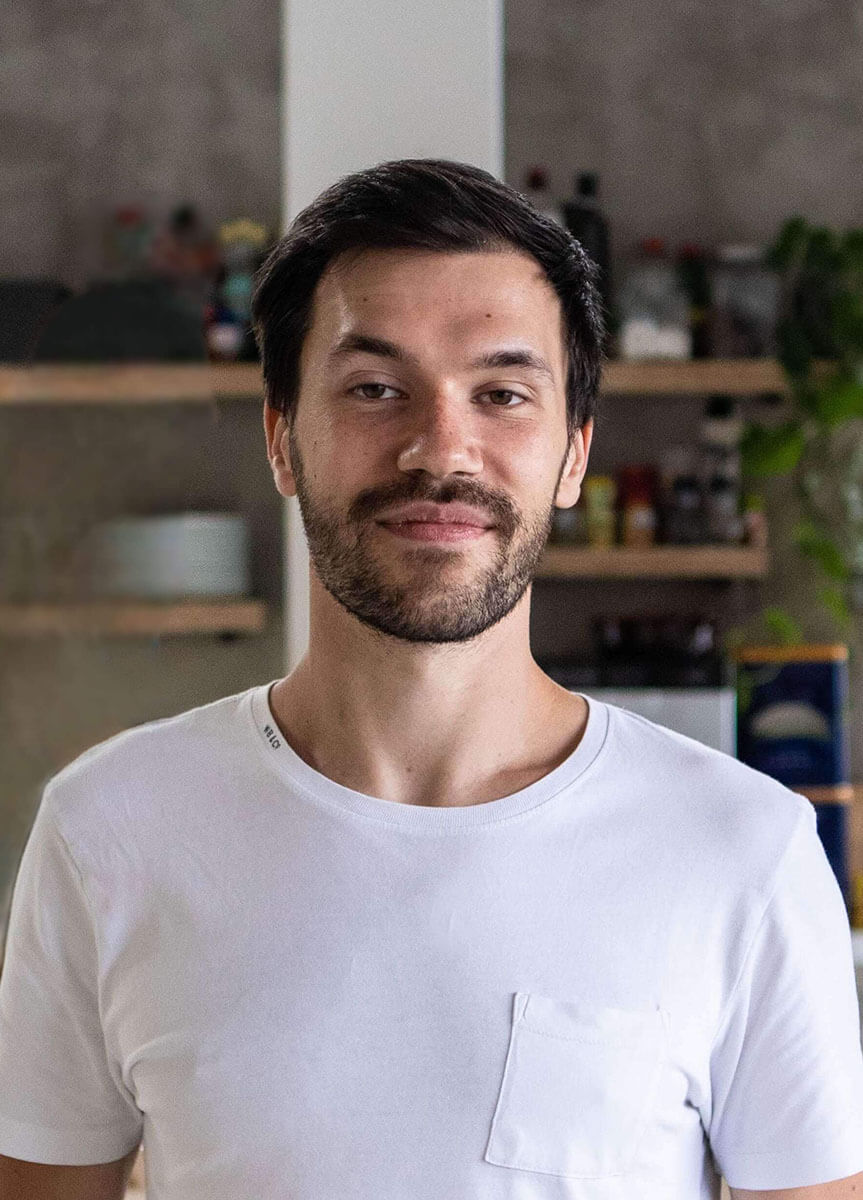
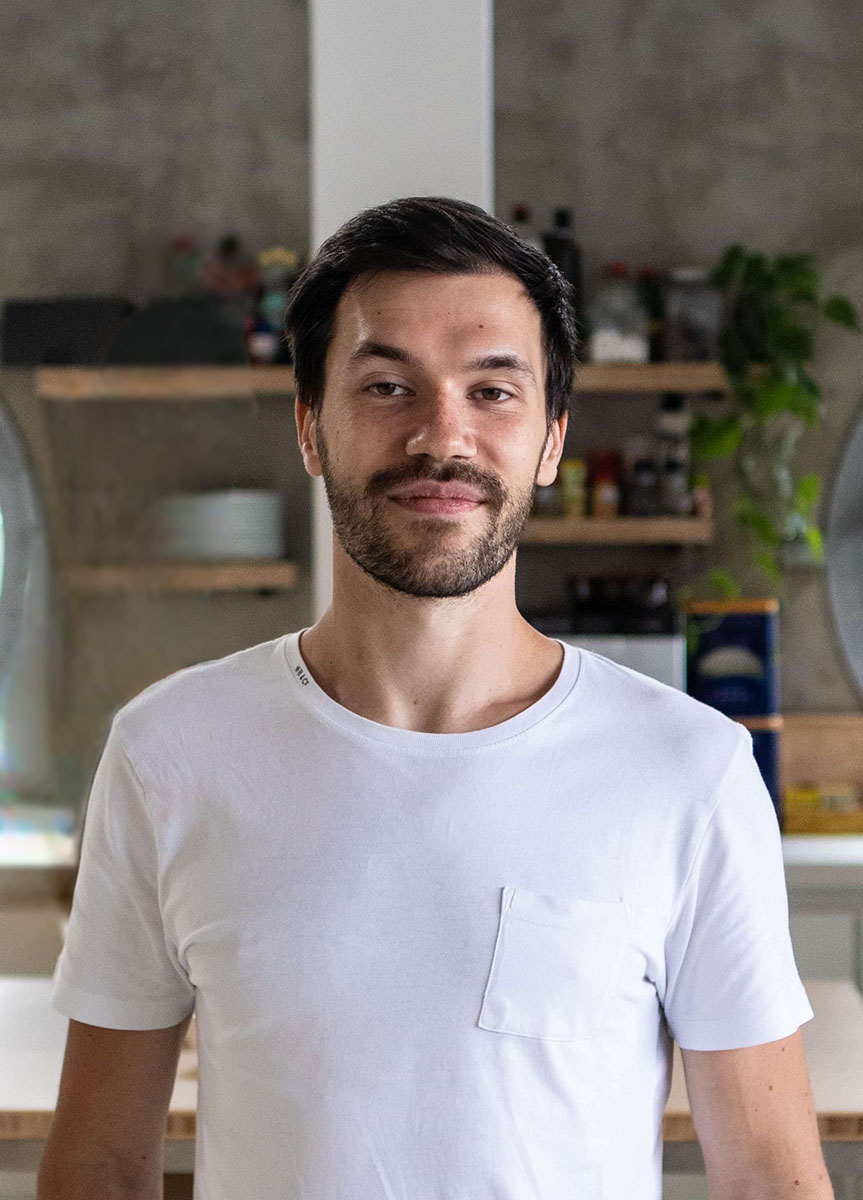
Update the card parallax effect to work with percentages

diff --git a/src/components/generic/Card.tsx b/src/components/generic/Card.tsx
@@ -16,10 +16,11 @@ export interface Props {
 }
 
 // Setup
-const PARALLAX_SCROLL_DISTANCE = -50
+const PARALLAX_SCROLL_DISTANCE = -10
 
+// Map total percentage scrolled from -10% to 10%
 const useParallax = (value: MotionValue<number>, distance: number) =>
-  useTransform(value, [0, 1], [-distance, distance])
+  useTransform(value, [0, 1], [`${-distance}%`, `${distance}%`])
 
 const Card: React.FC<Props> = ({ featuredImg, heading, copy }) => {
   const wrapperRef = useRef(null)
@@ -31,14 +32,16 @@ const Card: React.FC<Props> = ({ featuredImg, heading, copy }) => {
   if (!featuredImg || !heading || !copy) return null
 
   return (
-    <Wrapper ref={wrapperRef}>
+    <Wrapper>
       {featuredImg?.src && (
-        <FeaturedImageWrapper>
-          <FeaturedImage
-            src={featuredImg.src}
-            alt={featuredImg.alt || ""}
-            style={{ y }}
-          />
+        <FeaturedImageWrapper ref={wrapperRef}>
+          <FeaturedImageResizer>
+            <FeaturedImage
+              src={featuredImg.src}
+              alt={featuredImg.alt || ""}
+              style={{ y }}
+            />
+          </FeaturedImageResizer>
         </FeaturedImageWrapper>
       )}
 
@@ -67,6 +70,7 @@ const Wrapper = styled.div`
 
 const FeaturedImageWrapper = styled.div`
   position: relative;
+  overflow: hidden;
 
   ${mq.from.M`
     width: calc(2 * var(--grid-column-size) + var(--grid-gutter-size));
@@ -93,14 +97,16 @@ const FeaturedImageWrapper = styled.div`
   }
 `
 
+const FeaturedImageResizer = styled.div`
+  height: 100%;
+  // Make image larger to compensate for parallax motion
+  transform: scale(1.2);
+`
+
 const FeaturedImage = styled(motion(Image))`
-  position: relative;
-  // Centre image due to extra height
-  top: -10%;
   display: block;
   width: 100%;
-  // Make image taller to compensate for parallax motion
-  height: 120%;
+  height: 100%;
   object-fit: cover;
   line-height: 0;
   filter: saturate(0);
